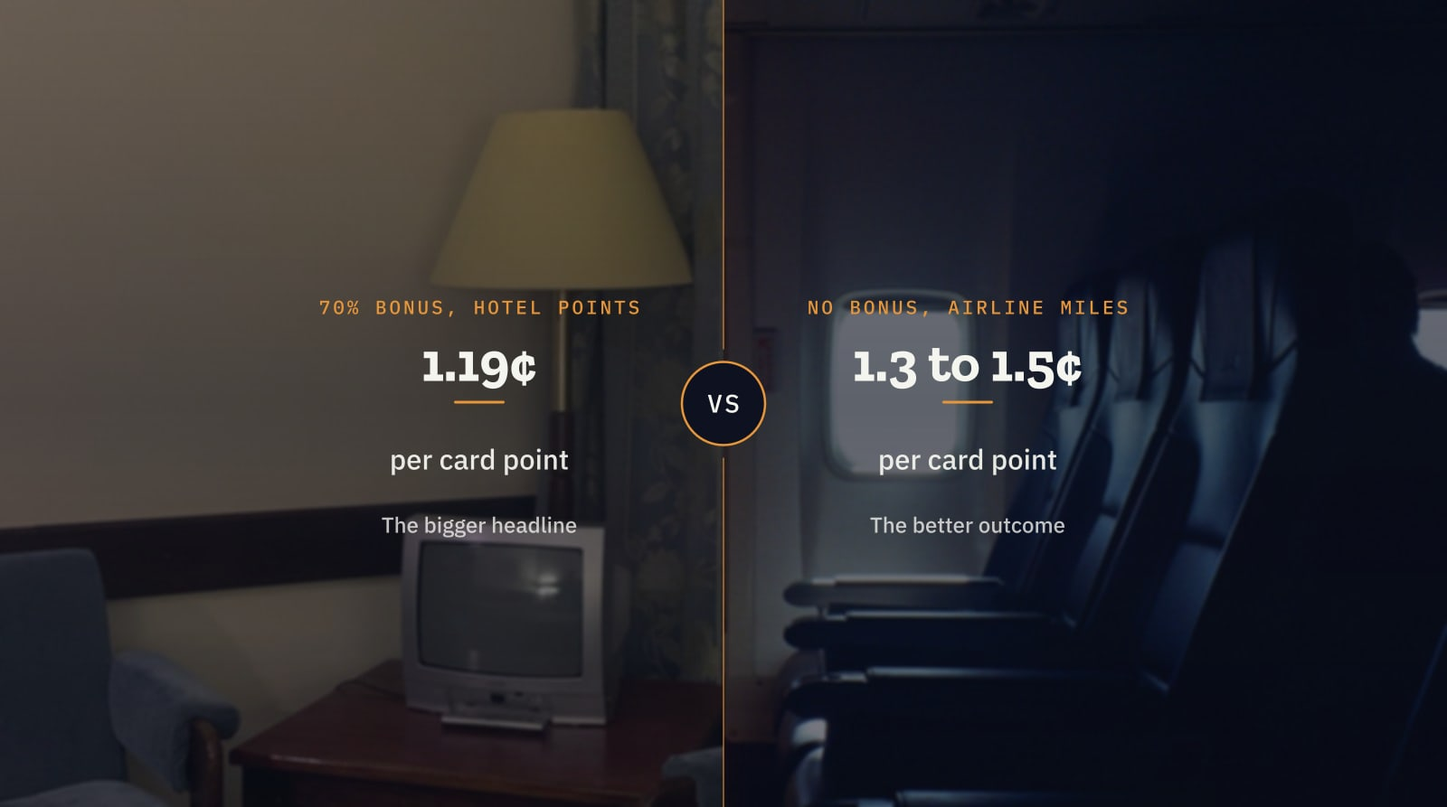
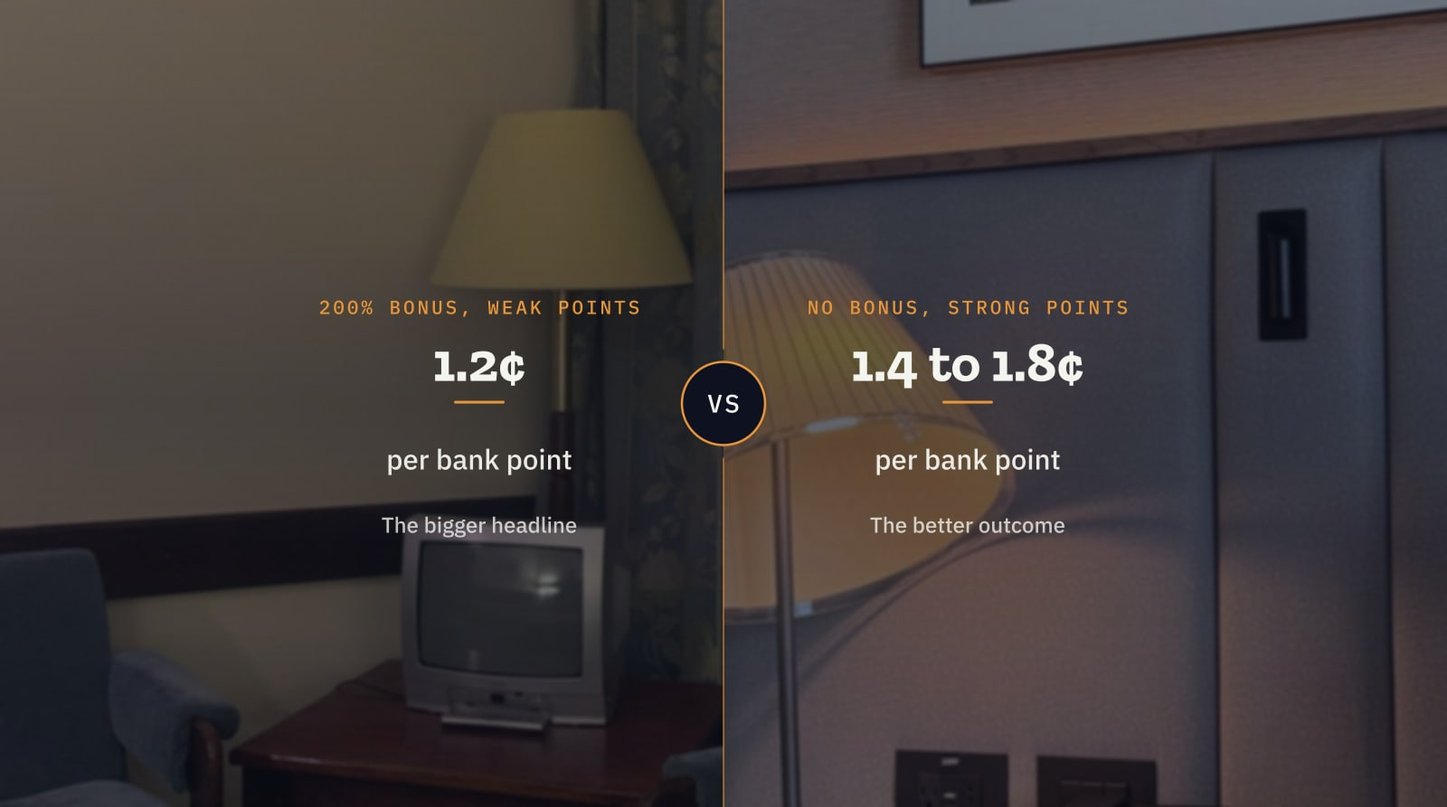
fix(blog): correct the transfer-bonus post before publishing
Two independent fact-checks (issuer and program pages plus five
publishers' current valuation tables; and the Frequent Miler and
AwardTravelFinder bonus histories with dated coverage) found:

- Bilt has NOT cut Hyatt yet: its 4:3 ratio starts Jan 1, 2027, which
  the live Hyatt-deadline post already says. Chase cut in 2026 for every
  card except the Reserve ones. The draft contradicted our own post.
- Hilton tops out at 0.5c across current publishers (0.6 was stale);
  IHG is 0.5-0.6c. The ladder now uses the median of five publishers,
  says which base ratio it assumes, and gives Hyatt 1.4-1.8c.
- "Hyatt has never received a bonus, in the program's entire history"
  is not checkable; it is now "no bonus on record from Chase or Bilt,
  and no tracker records one from any issuer".
- Accor (fixed EUR 0.02) is the most valuable hotel point and got 200%
  from Bilt, so "the strongest program never discounted" is narrowed to
  the four big chains, and the Accor section says which bonuses beat
  the ladder (Bilt's) and which do not (Citi's 50% at 2:1).
- "Nobody credible" recommends speculating into weak programs was
  false (Doctor of Credit did, for Bilt's Hilton offers); softened. The
  airline-roster claim now describes what Bilt Rent Day actually does.
- The 200% Hilton figure needed Bilt's top tier plus a Bilt Cash payment;
  Amex's old 50% at 1:2 produced the same three Hilton points.

Cover: the old one compared "hotel points" with "airline miles" at
[…]

diff --git a/src/scripts/assets/blog/de/are-transfer-bonuses-worth-it.md b/src/scripts/assets/blog/de/are-transfer-bonuses-worth-it.md
@@ -4,16 +4,16 @@ TITLE: Das beste Hotelprogramm hat noch nie einen Transferbonus gegeben
 EXCERPT: Sortieren Sie die großen Hotelprogramme nach dem größten Bonus, den jedes je erhalten hat, und Sie erhalten das Gegenteil des Punktewerts. Das begehrteste musste nie Rabatt geben.
 META_TITLE: Wann sich ein Transferbonus wirklich lohnt
 META_DESCRIPTION: Warum die größten Transferboni auf die schwächsten Punkte fallen, wie Sie ein Angebot in Cent pro Bankpunkt bewerten und welche drei Fragen zuerst kommen.
-COVER_ALT: Geteiltes Titelbild: ein großer Bonus in schwache Hotelpunkte gegen den stärkeren Wert, den diese Bankpunkte schon hatten
+COVER_ALT: Geteiltes Titelbild: 200 % Bonus in schwache Punkte, rund 1,2 Cent je Bankpunkt, gegen 1,4 bis 1,8 Cent ohne Bonus in starke
 ---BODY---
-**Sortieren Sie die großen Hotelprogramme nach dem größten Transferbonus, den jedes je erhalten hat, und Sie erhalten fast genau das Gegenteil dessen, was ihre Punkte wert sind.** Hilton hat 200 Prozent erreicht, IHG 150, Marriott 70. World of Hyatt, das wertvollste der vier, hat nie einen Transferbonus von einem Anbieter erhalten. Ein Bonus ist ein Rabatt, und das Programm, das alle ohnehin wollen, musste nie einen anbieten.
+**Sortieren Sie die großen Hotelprogramme nach dem größten Transferbonus, den jedes je erhalten hat, und Sie erhalten fast genau das Gegenteil dessen, was ihre Punkte wert sind.** Hilton hat 200 Prozent erreicht, IHG 150, Marriott 70. Für World of Hyatt, das wertvollste der vier, ist kein Transferbonus eines Anbieters verzeichnet. Ein Bonus ist ein Rabatt, und das Programm, das alle ohnehin wollen, hat nie einen gebraucht.
 
 ## Das Wichtigste in Kürze
 
-- Unter den Hotelprogrammen ist das Muster auffallend eindeutig: Je tiefer der Rabatt, desto schwächer die Währung, und das stärkste Programm hat überhaupt nie Rabatt gegeben.
+- Unter den vier großen Hotelketten ist das Muster auffallend eindeutig: Je tiefer der Rabatt, desto schwächer die Währung, und die stärkste von ihnen hat überhaupt nie Rabatt gegeben.
 - Bewerten Sie jedes Angebot in Cent pro Bankpunkt, nicht als Prozentwert, denn die Grundkurse unterscheiden sich, und ein Prozentwert verdeckt sie.
 - So gerechnet laufen die Schlagzeilenboni zusammen: Ein Angebot von 200 Prozent in ein schwaches Programm und eines von 70 Prozent in ein mittleres landen beide bei etwa 1,2 Cent, was ein Transfer ohne Rabatt in ein starkes Programm schlägt.
-- Auf Airlines lässt sich das Muster nicht übertragen. Manche Anbieter rotieren große Boni als monatliche Werbung über ihr gesamtes Airline-Portfolio, ein großer Airline-Bonus sagt also wenig über das empfangende Programm.
+- Auf Airlines lässt sich das Muster nicht übertragen. Bilt rotiert jeden Monat große Eintagesboni durch viele seiner Partner, hoch geschätzte Airline-Programme eingeschlossen, ein großer Airline-Bonus sagt also wenig über das empfangende Programm.
 
 Alle paar Wochen erscheint eine Liste: die aktuell laufenden Transferboni, nach Prozent sortiert. Die Listen sind korrekt und fast nutzlos, denn der Prozentwert ist die eine Eigenschaft eines Bonus, die den Kontakt mit dem Rechnen nicht übersteht.
 
@@ -21,15 +21,15 @@ Beginnen wir mit der Tatsache, die Sie gegenüber der ganzen Kategorie misstraui
 
 ## Das Programm, das nie Rabatt gegeben hat
 
-Veröffentlichte Bewertungen setzen World of Hyatt Punkte je nach Quelle zwischen 1,4 und 1,8 Cent, Marriott Bonvoy bei etwa 0,7 bis 0,75, IHG bei etwa 0,6 und Hilton Honors zwischen etwa 0,35 und 0,6. Das ist die Rangfolge.
+Veröffentlichte Bewertungen setzen World of Hyatt Punkte je nach Quelle zwischen 1,4 und 1,8 Cent, Marriott Bonvoy bei etwa 0,7 bis 0,75, IHG bei etwa 0,5 bis 0,6 und Hilton Honors zwischen etwa 0,35 und 0,5. Das ist die Rangfolge.
 
-Nun die Bonusgeschichte. Hilton war Ziel von Angeboten, die mit bis zu 200 Prozent beworben wurden. IHG hat 150 gesehen und mehr als einmal 100. Marriott wurde wiederholt mit 50, 65 und 70 Prozent bonusiert, mehrmals in einem einzigen Jahr. Hyatt hat in der gesamten Geschichte des Programms nie einen Transferbonus von einem Anbieter erhalten.
+Nun die Bonusgeschichte. Hilton war Ziel von Angeboten, die mit bis zu 200 Prozent beworben wurden. IHG hat 150 gesehen und mehr als einmal 100. Marriott wurde wiederholt mit 50, 65 und 70 Prozent bonusiert, mehrmals in einem einzigen Jahr. Für Hyatt ist kein Transferbonus von Chase oder Bilt verzeichnet, seinen einzigen heutigen Bankpartnern, und kein Tracker verzeichnet einen von irgendeinem Anbieter.
 
 Vier Programme, und die Höhe des Rabatts verläuft genau entgegengesetzt zum Wert der Punkte.
 
-## Warum das so ist, mechanisch betrachtet
+## Warum das so ist, wie wir es lesen
 
-Ein Transferbonus ist eine Mengenaktion. Anbieter und Programme setzen sie ein, um Punkte zu bewegen, die sich von allein nicht bewegen, und die Programme, die am tiefsten und häufigsten Rabatt geben, sind jene, deren Währung sich am schwersten verschieben lässt. Das eine Programm, das alle ohnehin wollen, musste es nie.
+Ein Transferbonus ist eine Mengenaktion. Anbieter und Programme setzen sie ein, um Punkte zu bewegen, die sich von allein nicht bewegen, und die Programme, die am tiefsten und häufigsten Rabatt geben, sind jene, deren Währung sich am schwersten verschieben lässt. Das eine Programm, das alle ohnehin wollen, musste es nie. Das ist unsere Deutung, nichts, was die Programme veröffentlichen, und Hyatts kurze Liste an Bankpartnern gehört mit zur Geschichte, doch ohne diese Deutung ist das Muster schwer zu erklären.
 
 So gelesen ist ein großer Bonus eine Information, und die Information ist selten vorteilhaft. Es ist das Treueprogramm-Äquivalent eines dauerhaften Wühltischs.
 
@@ -39,20 +39,20 @@ Erfahrene Kommentatoren schreiben über diese Angebote genau in diesen Worten. D
 
 Die Lösung ist eine einzige Rechnung. Nehmen Sie den Grundkurs, wenden Sie den Bonus an, multiplizieren Sie mit dem realistischen Wert eines Partnerpunkts, und Sie haben den Wert eines *Ihrer* Punkte durch diese Tür. Prozentwerte lassen sich nicht über Partner hinweg vergleichen, weil die Grundkurse verschieden sind, und der Bankpunkt ist die einzige Einheit, die Sie tatsächlich ausgeben.
 
-Die Leiter, mit mittleren veröffentlichten Bewertungen:
+Die Leiter, mit dem Median der aktuellen Bewertungen von fünf Quellen:
 
-- Ein Bonus von **200 Prozent** in das schwächste große Hotelprogramm landet bei etwa **1,2 Cent** pro Bankpunkt.
+- Ein Bonus von **200 Prozent** in das schwächste große Hotelprogramm, bei einem Grundkurs von 1:1, landet bei etwa **1,2 Cent** pro Bankpunkt.
 - Ein Bonus von **100 Prozent** in das nächstschwächste landet bei etwa **1,2 Cent**.
-- Ein Bonus von **70 Prozent** in das mittlere landet bei etwa **1,28 Cent**.
-- Ein einfacher **1:1-Transfer in das stärkste, ganz ohne Bonus**, landet bei etwa **1,4 bis 1,65 Cent**.
+- Ein Bonus von **70 Prozent** in das mittlere landet bei etwa **1,25 Cent**.
+- Ein einfacher **1:1-Transfer in das stärkste, ganz ohne Bonus**, landet bei etwa **1,55 Cent**, je nach Quelle irgendwo zwischen 1,4 und 1,8.
 
-Die Schlagzeilenwerte reichen von 200 Prozent bis null. Die Ergebnisse umfassen etwa vier Zehntel Cent, und das beste davon trägt keinen Bonus. Das ist der Befund, den man mitnehmen sollte: Die tiefsten Rabatte landen auf Währungen, die einem gewöhnlichen Transfer in ein gutes Programm immer noch unterliegen.
+Die Schlagzeilenwerte reichen von 200 Prozent bis null. Die Ergebnisse umfassen etwa ein Drittel Cent, und das beste davon trägt keinen Bonus. Das ist der Befund, den man mitnehmen sollte: Die tiefsten Rabatte landen auf Währungen, die einem gewöhnlichen Transfer in ein gutes Programm immer noch unterliegen.
 
-Eine aktuelle Einschränkung zur letzten Zeile. Chase und Bilt haben ihre Hyatt-Kurse 2026 für die meisten Karten auf 4:3 gesenkt, was diese Tür für betroffene Karteninhaber auf etwa 1,05 bis 1,35 Cent drückt und den Abstand tatsächlich verkleinert. Was dagegen zu tun ist, haben wir in [der Hyatt-Transferfrist](/blog/hyatt-transfer-deadline-what-to-do) durchgearbeitet.
+Eine aktuelle Einschränkung zur letzten Zeile. Chase hat seinen Hyatt-Kurs 2026 für alle Karten außer den Reserve-Karten auf 4:3 gesenkt, und Bilt stellt am 1. Januar 2027 alle Mitglieder auf 4:3 um. Das drückt diese Tür für betroffene Karteninhaber auf etwa 1,05 bis 1,35 Cent und verkleinert den Abstand tatsächlich. Was dagegen zu tun ist, haben wir in [der Hyatt-Transferfrist](/de/blog/hyatt-transfer-deadline-what-to-do) durchgearbeitet.
 
 ## Die Ausnahme, die beweist, dass es ums Ziel geht
 
-Es gibt ein echtes Gegenbeispiel, und es ist lehrreich, nicht unangenehm. Accors Währung wird ungewöhnlich hoch bewertet, nahe der Spitze der Hoteltabelle, und war trotzdem Gegenstand sehr großer Boni. Rechnet man einen davon in Cent pro Bankpunkt, liegt er weit über allem in der Leiter oben.
+Es gibt ein echtes Gegenbeispiel, und es ist lehrreich, nicht unangenehm. Accors Punkte haben einen von Accor festgelegten Wert von 0,02 € pro Punkt, den höchsten aller Hotelwährungen pro Punkt, und trotzdem hat Bilt Transfers dorthin mit bis zu 200 Prozent bonusiert. Rechnet man einen davon in Cent pro Bankpunkt, liegt er weit über allem in der Leiter oben. Der Grundkurs zählt trotzdem: Ein Citi-Bonus von 50 Prozent auf dessen Grundkurs von 2:1 landet bei etwa 1,5 bis 1,7 Cent, nicht besser als Hyatt zu 1:1.
 
 Die Regel lautet also nicht „große Boni sind schlecht“. Sie lautet, dass der Bonus fast nichts sagt und das Ziel fast alles. Wenn ein tiefer Rabatt auf eine wirklich starke Währung fällt, ist er das beste Angebot auf der Seite. Diese Kombination ist nur selten, und sie ist aus dem oben genannten mechanischen Grund selten.
 
@@ -60,17 +60,17 @@ Die Regel lautet also nicht „große Boni sind schlecht“. Sie lautet, dass de
 
 Zwei Details machen Schlagzeilenwerte schlechter als nutzlos, wenn Sie sie direkt vergleichen.
 
-**Die Grundkurse unterscheiden sich.** Manche Programme übertragen 1:1, manche 1:2, manche 3:2. Ein Bonus kommt auf den jeweiligen Grundkurs obendrauf, derselbe Prozentwert erzeugt also je nach Paarung völlig unterschiedliche Mengen.
+**Die Grundkurse unterscheiden sich.** Manche Paarungen übertragen 1:1, manche 1:2, manche 3:2, 2:1 oder 4:3. Ein Bonus kommt auf den jeweiligen Grundkurs obendrauf, derselbe Prozentwert erzeugt also je nach Paarung völlig unterschiedliche Mengen. American Express bot einmal 50 Prozent Bonus zu Hilton auf seinen Grundkurs von 1:2, was pro Bankpunkt genau dieselben drei Hilton-Punkte ergab wie Bilts 200 Prozent auf dessen Grundkurs von 1:1.
 
-**Die größten Zahlen sind meist an Bedingungen geknüpft.** Die tiefsten beworbenen Hotelboni waren in der Regel „bis zu“-Werte, einer obersten Statusstufe vorbehalten, bei einer bestimmten Punktezahl gedeckelt, an einem einzigen Tag verfügbar und mitunter nur durch zusätzliche Ausgaben freizuschalten. Eine bedingte Obergrenze gegen das Dauerangebot eines anderen Anbieters zu stellen, ist überhaupt kein Vergleich.
+**Die größten Zahlen sind meist an Bedingungen geknüpft.** Die tiefsten beworbenen Hotelboni waren in der Regel „bis zu“-Werte, den oberen Statusstufen vorbehalten, bei einer bestimmten Punktezahl gedeckelt, etwa einen Tag lang verfügbar und mitunter nur gegen eine zusätzliche Zahlung in Bilt Cash in voller Höhe freizuschalten. In beiden Hilton-Aktionen von Bilt im Jahr 2026 gab es 200 Prozent nur für die oberste Stufe plus diese Zahlung; die meisten Mitglieder bekamen 75 bis 150 Prozent. Eine bedingte Obergrenze gegen das Dauerangebot eines anderen Anbieters zu stellen, ist überhaupt kein Vergleich.
 
 ## Der Bonus berührt das Risiko nicht
 
 Ein Bonus verändert die Menge auf einer Seite eines unumkehrbaren Tauschs. Am Tausch selbst verändert er nichts weiter.
 
-Transfers sind eine Einbahnstraße, und kein großer Anbieter dreht sie zurück. Die Prämie muss an Ihren Daten weiterhin existieren. Das Programm kann seine Tabelle weiterhin neu bepreisen, nachdem Ihre Punkte angekommen sind. Der Partner kann weiterhin aufhören, das zu verkaufen, was Sie wollten, und das ist nicht hypothetisch: [eine ganze Partnerbeziehung wurde](/blog/when-a-partner-stops-selling-awards) diesen Oktober dunkel, ohne Erklärung und ohne genanntes Enddatum.
+Transfers sind eine Einbahnstraße. Jeder große Anbieter behandelt sie als endgültig, und die seltenen bekannten Rückbuchungen waren einmalige Kulanzfälle. Die Prämie muss an Ihren Daten weiterhin existieren. Das Programm kann seine Tabelle weiterhin neu bepreisen, nachdem Ihre Punkte angekommen sind. Der Partner kann weiterhin aufhören, das zu verkaufen, was Sie wollten, und das ist nicht hypothetisch: [eine ganze Partnerbeziehung wurde](/de/blog/when-a-partner-stops-selling-awards) diesen Oktober dunkel, ohne Erklärung und ohne genanntes Enddatum.
 
-Ein Bonus von 40 Prozent auf Meilen, die Sie nie nutzen, ist kein Gewinn von 40 Prozent. Es ist ein Totalverlust mit einer größeren Zahl daran. Unser [Leitfaden zu Transferpartnern](/blog/transfer-partners-explained-guide) legt die Reihenfolge dar, die das verhindert, und eine Aktion ist kein Grund, sie zu brechen.
+Ein Bonus von 40 Prozent auf Meilen, die Sie nie nutzen, ist kein Gewinn von 40 Prozent. Es ist ein Totalverlust mit einer größeren Zahl daran. Unser [Leitfaden zu Transferpartnern](/de/blog/transfer-partners-explained-guide) legt die Reihenfolge dar, die das verhindert, und eine Aktion ist kein Grund, sie zu brechen.
 
 ## Die drei Fragen, in dieser Reihenfolge
 
@@ -82,7 +82,7 @@ Ein Bonus von 40 Prozent auf Meilen, die Sie nie nutzen, ist kein Gewinn von 40 
 
 ## Wann es sich wirklich lohnt
 
-Die strenge Linie lautet, nur gegen eine bestätigte Buchung zu übertragen, und das ist die richtige Voreinstellung. Dazu gehört die Feststellung, dass das Feld nicht einstimmig ist: Manche angesehenen Kommentatoren übertragen spekulativ, wenn ein großer Bonus auf ein Programm fällt, das sie sicher nutzen werden, und sie nennen dann die starken Programme. Niemand Glaubwürdiger wirbt für spekulative Transfers in die schwachen, was derselbe Befund von der anderen Seite ist.
+Die strenge Linie lautet, nur gegen eine bestätigte Buchung zu übertragen, und das ist die richtige Voreinstellung. Dazu gehört die Feststellung, dass das Feld nicht einstimmig ist: Manche angesehenen Kommentatoren übertragen spekulativ, wenn ein großer Bonus auf ein Programm fällt, das sie sicher nutzen werden, und sie nennen dann die starken Programme. Die meisten namhaften Kommentatoren raten von spekulativen Transfers in die schwachen ab, selbst bei 200 Prozent, was derselbe Befund von der anderen Seite ist.
 
 Die ehrliche Fassung der Ausnahme ist also eng:
 
@@ -96,7 +96,7 @@ Das Aufstocken ist der klarere Fall. Wenn Ihnen wenige Tausend Punkte für eine 
 
 Der schwierige Teil ist nicht die Rechnung. Es ist, Frage zwei richtig zu beantworten, und das heißt, die tatsächliche Prämienverfügbarkeit über mehrere Programme zu prüfen, an Ihren Daten, in der gewünschten Reiseklasse, und zu wissen, was jedes zusätzlich in Bargeld verlangt. Die meisten übertragen, weil der Bonus ausläuft und das Prüfen mühsam ist.
 
-Das ist die Arbeit, die wir von Hand machen. Ein echter Mensch bestätigt, was wirklich buchbar ist, bepreist es über jedes erreichbare Programm und sagt, ob der Bonus Ihre Reise wirklich verbessert oder nur so aussieht. [So funktioniert es](/how-it-works) beschreibt den Ablauf, [Preise](/pricing) nennt die Kosten. Neu bei der Mechanik? Beginnen Sie mit dem [Grundlagenleitfaden](/blog/how-to-fly-for-free-with-credit-card-points), und wenn Sie Punkte gegen Bargeld abwägen, vergleicht [Reiseportal oder Transferpartner](/blog/travel-portal-vs-transfer-partners) beides ehrlich.
+Das ist die Arbeit, die wir von Hand machen. Ein echter Mensch bestätigt, was wirklich buchbar ist, bepreist es über jedes erreichbare Programm und sagt, ob der Bonus Ihre Reise wirklich verbessert oder nur so aussieht. [So funktioniert es](/de/how-it-works) beschreibt den Ablauf, [Preise](/de/pricing) nennt die Kosten. Neu bei der Mechanik? Beginnen Sie mit dem [Grundlagenleitfaden](/de/blog/how-to-fly-for-free-with-credit-card-points), und wenn Sie Punkte gegen Bargeld abwägen, vergleicht [Reiseportal oder Transferpartner](/de/blog/travel-portal-vs-transfer-partners) beides ehrlich.
 
 ## Häufig gestellte Fragen
 
@@ -106,11 +106,11 @@ Nur wenn sie eine Einlösung verbessern, die Sie ohnehin vorgenommen hätten. Ei
 
 ### Warum sind Hotel-Transferboni so viel größer als die von Airlines?
 
-Unter den Hotelprogrammen folgt die Höhe eines Bonus der Schwäche der Währung, denn ein Bonus ist eine Mengenaktion, und die Programme, die am tiefsten Rabatt geben, sind jene, deren Punkte sich am wenigsten bereitwillig bewegen. Das wertvollste Hotelprogramm hat nie einen gebraucht. Übertragen Sie diese Logik vorsichtig auf Airlines: Manche Anbieter rotieren große Boni als regelmäßige Werbung über ihr gesamtes Airline-Portfolio, auch zu Programmen, die in der Szene hoch geschätzt sind. Ein Airline-Bonus trägt also weit weniger Information über das Ziel.
+Unter den Hotelprogrammen folgt die Höhe eines Bonus der Schwäche der Währung, denn ein Bonus ist eine Mengenaktion, und die Programme, die am tiefsten Rabatt geben, sind jene, deren Punkte sich am wenigsten bereitwillig bewegen. Unter den großen Ketten ist für das wertvollste Programm kein Bonus verzeichnet. Übertragen Sie diese Logik vorsichtig auf Airlines: Bilt rotiert jeden Monat große Eintagesboni durch viele seiner Partner, auch zu Airline-Programmen, die in der Szene hoch geschätzt sind, etwa Flying Blue, Virgin Atlantic und Avios. Ein Airline-Bonus trägt also weit weniger Information über das Ziel.
 
 ### Soll ich während eines Bonus spekulativ übertragen?
 
-Die Standardantwort lautet Nein, denn ein spekulativer Transfer nimmt Verfügbarkeitsrisiko, Abwertungsrisiko und Unumkehrbarkeit in Kauf, und ein Bonus gleicht keines davon aus. Die ehrliche Ausnahme, die manche erfahrenen Kommentatoren eingehen, ist ein großer Bonus in ein Programm, das Sie nachweislich nutzen und schätzen, wobei Sie einen Teil eines Guthabens bewegen und nicht alles. Niemand Glaubwürdiger empfiehlt spekulative Transfers in die schwächsten Programme, was derselbe Schluss aus der anderen Richtung ist.
+Die Standardantwort lautet Nein, denn ein spekulativer Transfer nimmt Verfügbarkeitsrisiko, Abwertungsrisiko und Unumkehrbarkeit in Kauf, und ein Bonus gleicht keines davon aus. Die ehrliche Ausnahme, die manche erfahrenen Kommentatoren eingehen, ist ein großer Bonus in ein Programm, das Sie nachweislich nutzen und schätzen, wobei Sie einen Teil eines Guthabens bewegen und nicht alles. Die meisten namhaften Kommentatoren raten von spekulativen Transfers in die schwächsten Programme ab, was derselbe Schluss aus der anderen Richtung ist.
 
 ### Wie vergleiche ich einen Transferbonus mit der Nutzung von Punkten als Bargeld?
 
@@ -118,4 +118,4 @@ Rechnen Sie beide Wege in Cent pro Bankpunkt. Für den Bonus wenden Sie Grundkur
 
 ## Starten Sie Ihre Suche
 
-Wenn ein Bonus läuft und Sie nicht sicher sind, ob er Ihnen konkret hilft, lohnt es sich, das vor der Frist zu klären und nicht danach. [Starten Sie Ihre Suche](/individual): Sagen Sie uns, was Sie halten und was Sie buchen möchten, und ein Spezialist prüft, was verfügbar ist und ob der Transfer wirklich das bessere Geschäft ist.
+Wenn ein Bonus läuft und Sie nicht sicher sind, ob er Ihnen konkret hilft, lohnt es sich, das vor der Frist zu klären und nicht danach. [Starten Sie Ihre Suche](/de/individual): Sagen Sie uns, was Sie halten und was Sie buchen möchten, und ein Spezialist prüft, was verfügbar ist und ob der Transfer wirklich das bessere Geschäft ist.

diff --git a/src/scripts/assets/blog/are-transfer-bonuses-worth-it.md b/src/scripts/assets/blog/are-transfer-bonuses-worth-it.md
@@ -4,16 +4,16 @@ TITLE: The Best Hotel Program Has Never Offered a Transfer Bonus
 EXCERPT: Rank the big hotel programs by the largest bonus each has ever given and you get the inverse of what their points are worth. The one everybody wants has never had to discount.
 META_TITLE: When a Transfer Bonus Is Worth Taking
 META_DESCRIPTION: Why the deepest transfer bonuses land on the weakest points, how to score an offer in cents per bank point, and the three questions to ask first.
-COVER_ALT: Split cover comparing a large bonus into weak hotel points against the stronger value those bank points already held
+COVER_ALT: Split cover: a 200% bonus into weak hotel points, about 1.2¢ a bank point, vs 1.4 to 1.8¢ with no bonus into strong ones
 ---BODY---
-**Rank the major hotel programs by the largest transfer bonus each has ever received and you get almost exactly the inverse of what their points are worth.** Hilton has reached 200 percent, IHG 150, Marriott 70. World of Hyatt, the most valuable of the four, has never received a transfer bonus from any issuer. A bonus is a discount, and the program everybody already wants has never needed to offer one.
+**Rank the major hotel programs by the largest transfer bonus each has ever received and you get almost exactly the inverse of what their points are worth.** Hilton has reached 200 percent, IHG 150, Marriott 70. World of Hyatt, the most valuable of the four, has no transfer bonus on record from any issuer. A bonus is a discount, and the program everybody already wants has never needed one.
 
 ## Key takeaways
 
-- Among hotel programs the pattern is strikingly consistent: the deeper the discount, the weaker the currency, and the strongest program has never discounted at all.
+- Among the four big hotel chains the pattern is strikingly consistent: the deeper the discount, the weaker the currency, and the strongest of them has never discounted at all.
 - Score any offer in cents per bank point, not as a percentage, because base ratios differ and a percentage hides them.
 - Done that way, headline bonuses converge: a 200 percent offer into a weak program and a 70 percent offer into a middling one both land near 1.2 cents, which an undiscounted transfer into a strong program beats.
-- The pattern does not extend to airlines. Some issuers rotate large bonuses across their whole airline roster as monthly marketing, so a big airline bonus says little about the program receiving it.
+- The pattern does not extend to airlines. Bilt rotates large one-day bonuses through many of its partners every month, highly rated airline programs included, so a big airline bonus says little about the program receiving it.
 
 Every few weeks a list appears: the transfer bonuses live right now, ranked by percentage. The lists are accurate and nearly useless, because percentage is the one property of a bonus that does not survive contact with arithmetic.
 
@@ -21,15 +21,15 @@ Start with the fact that should make you suspicious of the whole category.
 
 ## The program that has never discounted
 
-Published valuations put World of Hyatt points somewhere between 1.4 and 1.8 cents depending on the publisher, Marriott Bonvoy around 0.7 to 0.75, IHG around 0.6, and Hilton Honors between roughly 0.35 and 0.6. That is the ranking.
+Published valuations put World of Hyatt points somewhere between 1.4 and 1.8 cents depending on the publisher, Marriott Bonvoy around 0.7 to 0.75, IHG around 0.5 to 0.6, and Hilton Honors between roughly 0.35 and 0.5. That is the ranking.
 
-Now the bonus history. Hilton has been the target of offers advertised as high as 200 percent. IHG has seen 150, and 100 more than once. Marriott has repeatedly been bonused at 50, 65 and 70 percent, several times in a single year. Hyatt has never been on the receiving end of a transfer bonus from any issuer, in the entire history of the program.
+Now the bonus history. Hilton has been the target of offers advertised as high as 200 percent. IHG has seen 150, and 100 more than once. Marriott has repeatedly been bonused at 50, 65 and 70 percent, several times in a single year. Hyatt has no transfer bonus on record from Chase or Bilt, its only bank partners today, and no tracker records one from any issuer.
 
 Four programs, and the size of the discount runs precisely opposite to the value of the points.
 
-## Why that is, mechanically
+## Why that is, as we read it
 
-A transfer bonus is a volume promotion. Issuers and programs run them to move points that are not moving on their own, and the programs that discount deepest and most often are the ones that find their currency hardest to shift. The one program everybody already wants has never had to.
+A transfer bonus is a volume promotion. Issuers and programs run them to move points that are not moving on their own, and the programs that discount deepest and most often are the ones that find their currency hardest to shift. The one program everybody already wants has never had to. That is our interpretation rather than anything the programs publish, and Hyatt's short list of bank partners is part of the story, but the pattern is hard to explain without it.
 
 Read that way, a large bonus is information, and the information is rarely flattering. It is the loyalty equivalent of a permanent sale rack.
 
@@ -39,20 +39,20 @@ Experienced commentators write about these offers in exactly those terms. The co
 
 The fix is one calculation. Take the base transfer ratio, apply the bonus, multiply by what one partner point is realistically worth, and you have the value of one of *your* points through that door. Percentages cannot be compared across partners because the base ratios differ, and the bank point is the only unit you actually spend.
 
-Run the ladder, using mid-range published valuations:
+Run the ladder, using the median of five publishers' current valuations:
 
-- A **200 percent** bonus into the weakest major hotel program lands around **1.2 cents** per bank point.
+- A **200 percent** bonus into the weakest major hotel program, at a 1:1 base, lands around **1.2 cents** per bank point.
 - A **100 percent** bonus into the next weakest lands around **1.2 cents**.
-- A **70 percent** bonus into the middling one lands around **1.28 cents**.
-- A plain **1:1 transfer into the strongest, with no bonus at all**, lands around **1.4 to 1.65 cents**.
+- A **70 percent** bonus into the middling one lands around **1.25 cents**.
+- A plain **1:1 transfer into the strongest, with no bonus at all**, lands around **1.55 cents**, and anywhere from 1.4 to 1.8 depending on the publisher.
 
-The headline numbers span 200 percent to zero. The outcomes span about four tenths of a cent, and the best of them carries no bonus. That is the finding worth taking away: the deepest discounts land on currencies that still lose to an ordinary transfer into a good program.
+The headline numbers span 200 percent to zero. The outcomes span about a third of a cent, and the best of them carries no bonus. That is the finding worth taking away: the deepest discounts land on currencies that still lose to an ordinary transfer into a good program.
 
-One live caveat on that last line. Chase and Bilt both cut their Hyatt ratios to 4:3 for most cards during 2026, which pulls that door down to roughly 1.05 to 1.35 cents for affected cardholders and genuinely narrows the gap. We worked through what to do about it in [the Hyatt transfer deadline](/blog/hyatt-transfer-deadline-what-to-do).
+One live caveat on that last line. Chase cut its Hyatt ratio to 4:3 during 2026 for every card except its Reserve-branded ones, and Bilt moves every member to 4:3 on January 1, 2027. That pulls the door down to roughly 1.05 to 1.35 cents for affected cardholders and genuinely narrows the gap. We worked through what to do about it in [the Hyatt transfer deadline](/blog/hyatt-transfer-deadline-what-to-do).
 
 ## The exception that proves it is about the destination
 
-There is a real counterexample and it is instructive rather than awkward. Accor's currency is valued unusually highly, near the top of the hotel table, and it has still been the subject of very large bonuses. Score one of those in cents per bank point and it comes out far above everything in the ladder above.
+There is a real counterexample and it is instructive rather than awkward. Accor's points have a fixed value set by Accor, €0.02 each or about two US cents, the highest of any hotel currency per point, and Bilt has still bonused transfers into it by as much as 200 percent. Score one of those in cents per bank point and it comes out far above everything in the ladder above. The base ratio still matters: a 50 percent Citi bonus at its 2:1 base lands around 1.5 to 1.7 cents, no better than Hyatt at 1:1.
 
 So the rule is not "big bonuses are bad". It is that the bonus tells you almost nothing and the destination tells you almost everything. When a deep discount lands on a genuinely strong currency, it is the best offer on the page. That combination is simply rare, and it is rare for the mechanical reason given above.
 
@@ -60,15 +60,15 @@ So the rule is not "big bonuses are bad". It is that the bonus tells you almost 
 
 Two details make headline numbers worse than useless if you compare them directly.
 
-**Base ratios differ.** Some programs transfer at 1:1, some at 1:2, some at 3:2. A bonus is applied on top of whatever the base is, so the same percentage produces wildly different quantities depending on the pair.
+**Base ratios differ.** Some pairs transfer at 1:1, some at 1:2, some at 3:2, 2:1 or 4:3. A bonus is applied on top of whatever the base is, so the same percentage produces wildly different quantities depending on the pair. American Express once ran a 50 percent bonus into Hilton on its 1:2 base, which produced exactly the same three Hilton points per bank point as Bilt's 200 percent on its 1:1 base.
 
-**The biggest numbers are usually conditional.** The deepest advertised hotel bonuses have tended to be "up to" figures, reserved for a top elite tier, capped at a certain number of points, available for a single day, and sometimes requiring additional spending to unlock. Comparing a conditional ceiling against another issuer's standing offer is not a comparison at all.
+**The biggest numbers are usually conditional.** The deepest advertised hotel bonuses have tended to be "up to" figures, reserved for upper status tiers, capped at a certain number of points, available for a day or so, and sometimes requiring an extra Bilt Cash payment to unlock the top rate. In both of Bilt's 2026 Hilton offers, 200 percent needed the top tier plus that payment; most members got 75 to 150 percent. Comparing a conditional ceiling against another issuer's standing offer is not a comparison at all.
 
 ## The bonus does not touch the risk
 
 A bonus changes the quantity on one side of an irreversible trade. It changes nothing else about the trade.
 
-Transfers are one way, and no major issuer reverses them. The award still has to exist on your dates. The program can still reprice its chart after your points land. The partner can still stop selling what you wanted, which is not hypothetical: [an entire partner relationship went dark](/blog/when-a-partner-stops-selling-awards) this October with no explanation and no stated end date.
+Transfers are one way. Every major issuer treats them as final, and the rare reversals on record were one-off goodwill gestures. The award still has to exist on your dates. The program can still reprice its chart after your points land. The partner can still stop selling what you wanted, which is not hypothetical: [an entire partner relationship went dark](/blog/when-a-partner-stops-selling-awards) this October with no explanation and no stated end date.
 
 A 40 percent bonus on miles you never use is not a 40 percent gain. It is a total loss with a bigger number attached. Our [transfer partners guide](/blog/transfer-partners-explained-guide) lays out the sequence that prevents this, and a promotion is not a reason to break it.
 
@@ -82,7 +82,7 @@ A 40 percent bonus on miles you never use is not a 40 percent gain. It is a tota
 
 ## When it genuinely is worth taking
 
-The strict line is to transfer only against a confirmed booking, and that is the right default. It is worth saying that the field is not unanimous: some respected commentators will transfer speculatively when a large bonus lands on a program they are confident they will use, and they name the strong programs when they do it. Nobody credible argues for speculative transfers into the weak ones, which is the same finding from the other side.
+The strict line is to transfer only against a confirmed booking, and that is the right default. It is worth saying that the field is not unanimous: some respected commentators will transfer speculatively when a large bonus lands on a program they are confident they will use, and they name the strong programs when they do it. Most prominent commentators advise against speculative transfers into the weak ones, even at 200 percent, which is the same finding from the other side.
 
 So the honest version of the exception is narrow:
 
@@ -106,11 +106,11 @@ Only when they improve a redemption you were already going to make. A bonus incr
 
 ### Why are hotel transfer bonuses so much larger than airline ones?
 
-Among hotel programs the size of a bonus tracks the weakness of the currency, because a bonus is a volume promotion and the programs that discount deepest are the ones whose points move least readily. The most valuable hotel program has never needed one. Be careful extending that logic to airlines: some issuers rotate large bonuses across their entire airline roster as regular marketing, including to programs the community rates highly, so an airline bonus carries much less information about the destination.
+Among hotel programs the size of a bonus tracks the weakness of the currency, because a bonus is a volume promotion and the programs that discount deepest are the ones whose points move least readily. Among the big chains, the most valuable program has no bonus on record. Be careful extending that logic to airlines: Bilt rotates large one-day bonuses through many of its partners every month, including airline programs the community rates highly such as Flying Blue, Virgin Atlantic and Avios, so an airline bonus carries much less information about the destination.
 
 ### Should I transfer points speculatively during a bonus?
 
-The default answer is no, because a speculative transfer takes on availability risk, devaluation risk and irreversibility, and a bonus offsets none of them. The honest exception, which some experienced commentators do take, is a large bonus into a program you demonstrably use and rate, where you move a portion of a balance rather than all of it. Nobody credible recommends speculative transfers into the weakest programs, which is the same conclusion arrived at from the other direction.
+The default answer is no, because a speculative transfer takes on availability risk, devaluation risk and irreversibility, and a bonus offsets none of them. The honest exception, which some experienced commentators do take, is a large bonus into a program you demonstrably use and rate, where you move a portion of a balance rather than all of it. Most prominent commentators advise against speculative transfers into the weakest programs, which is the same conclusion arrived at from the other direction.
 
 ### How do I compare a transfer bonus with using points as cash?
 
